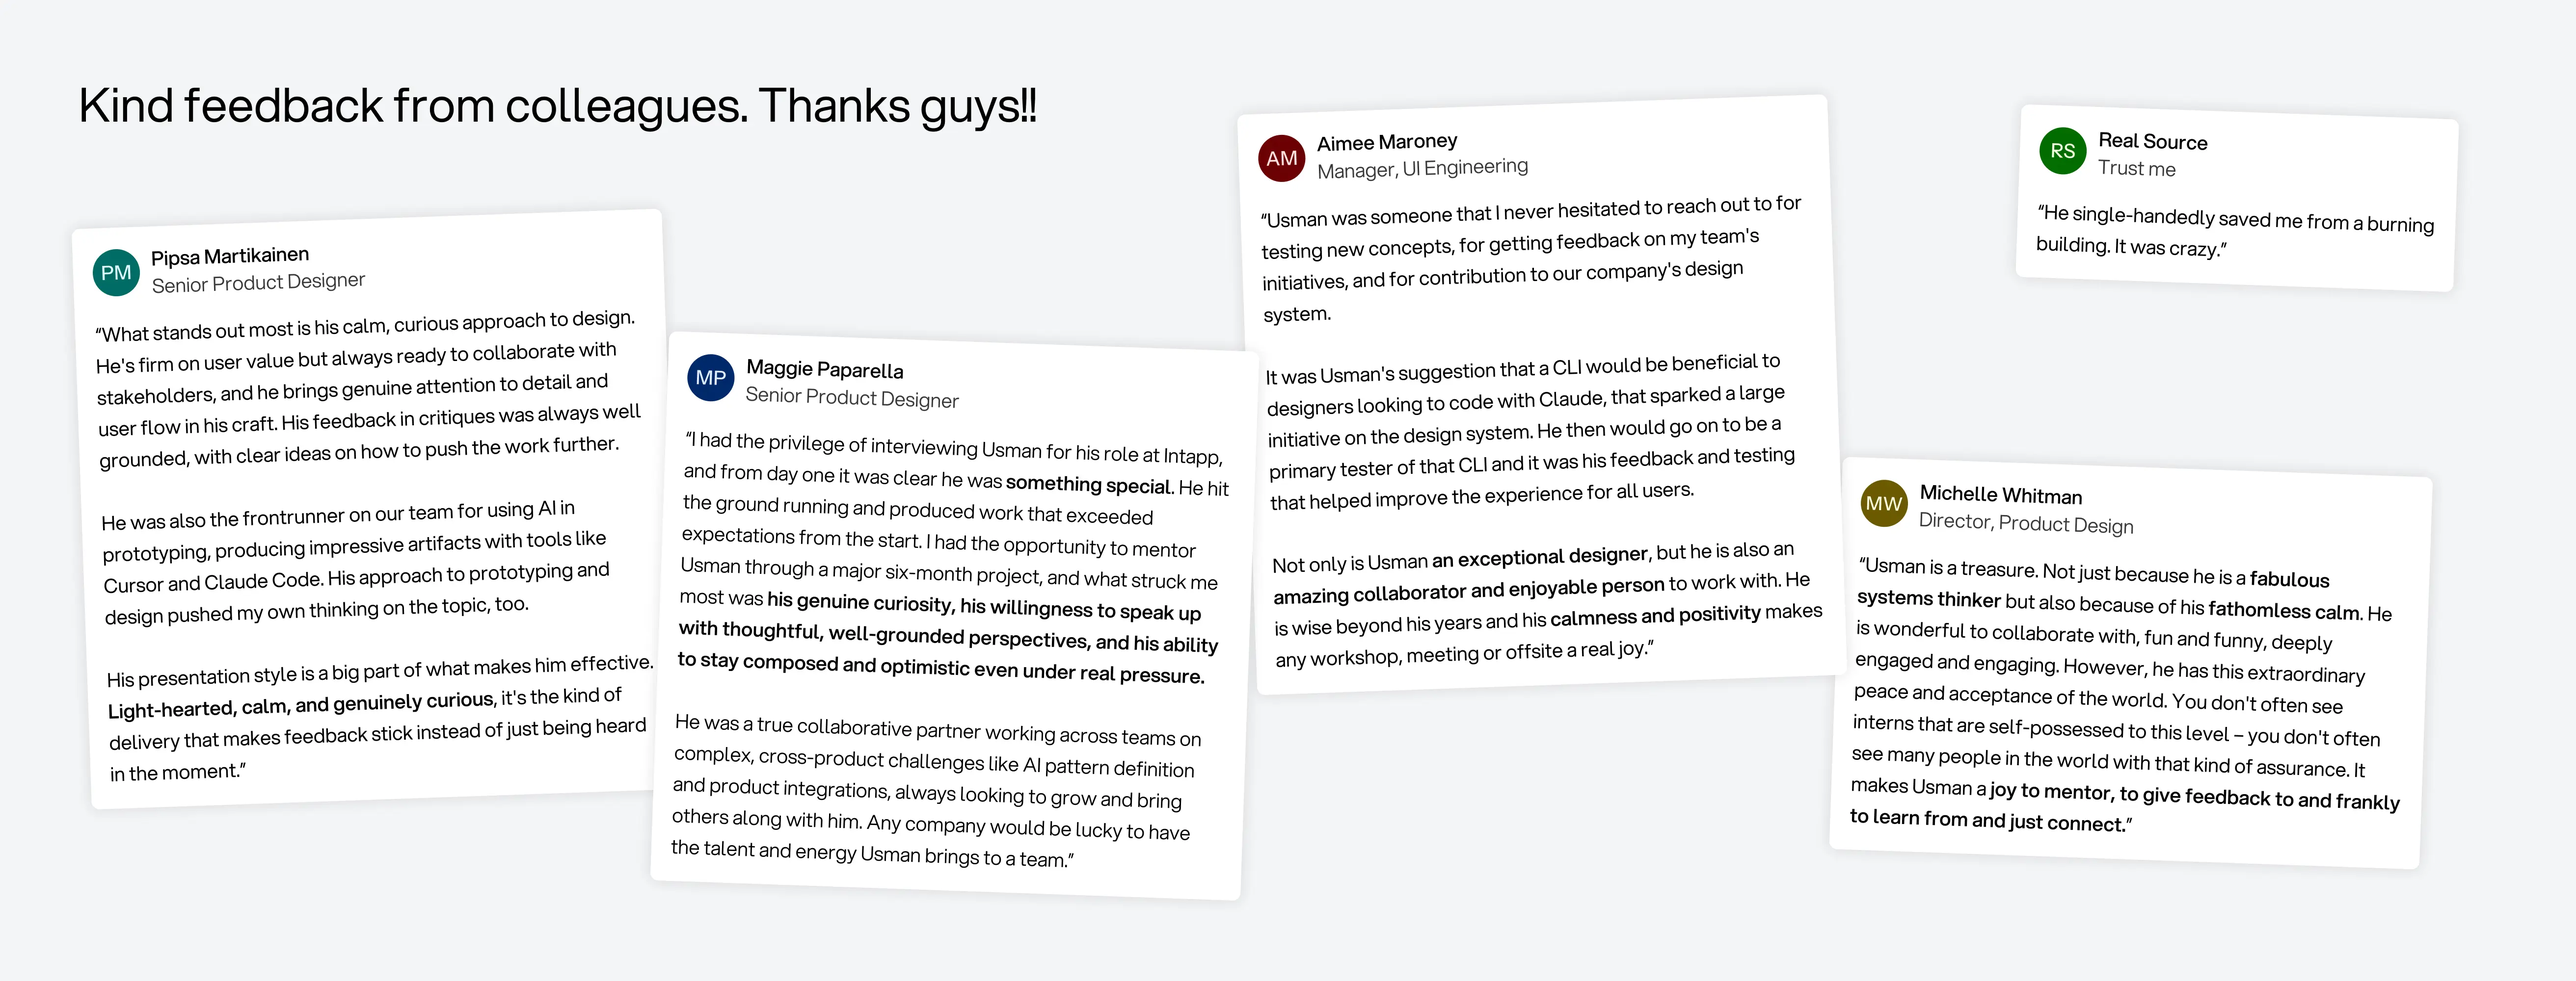
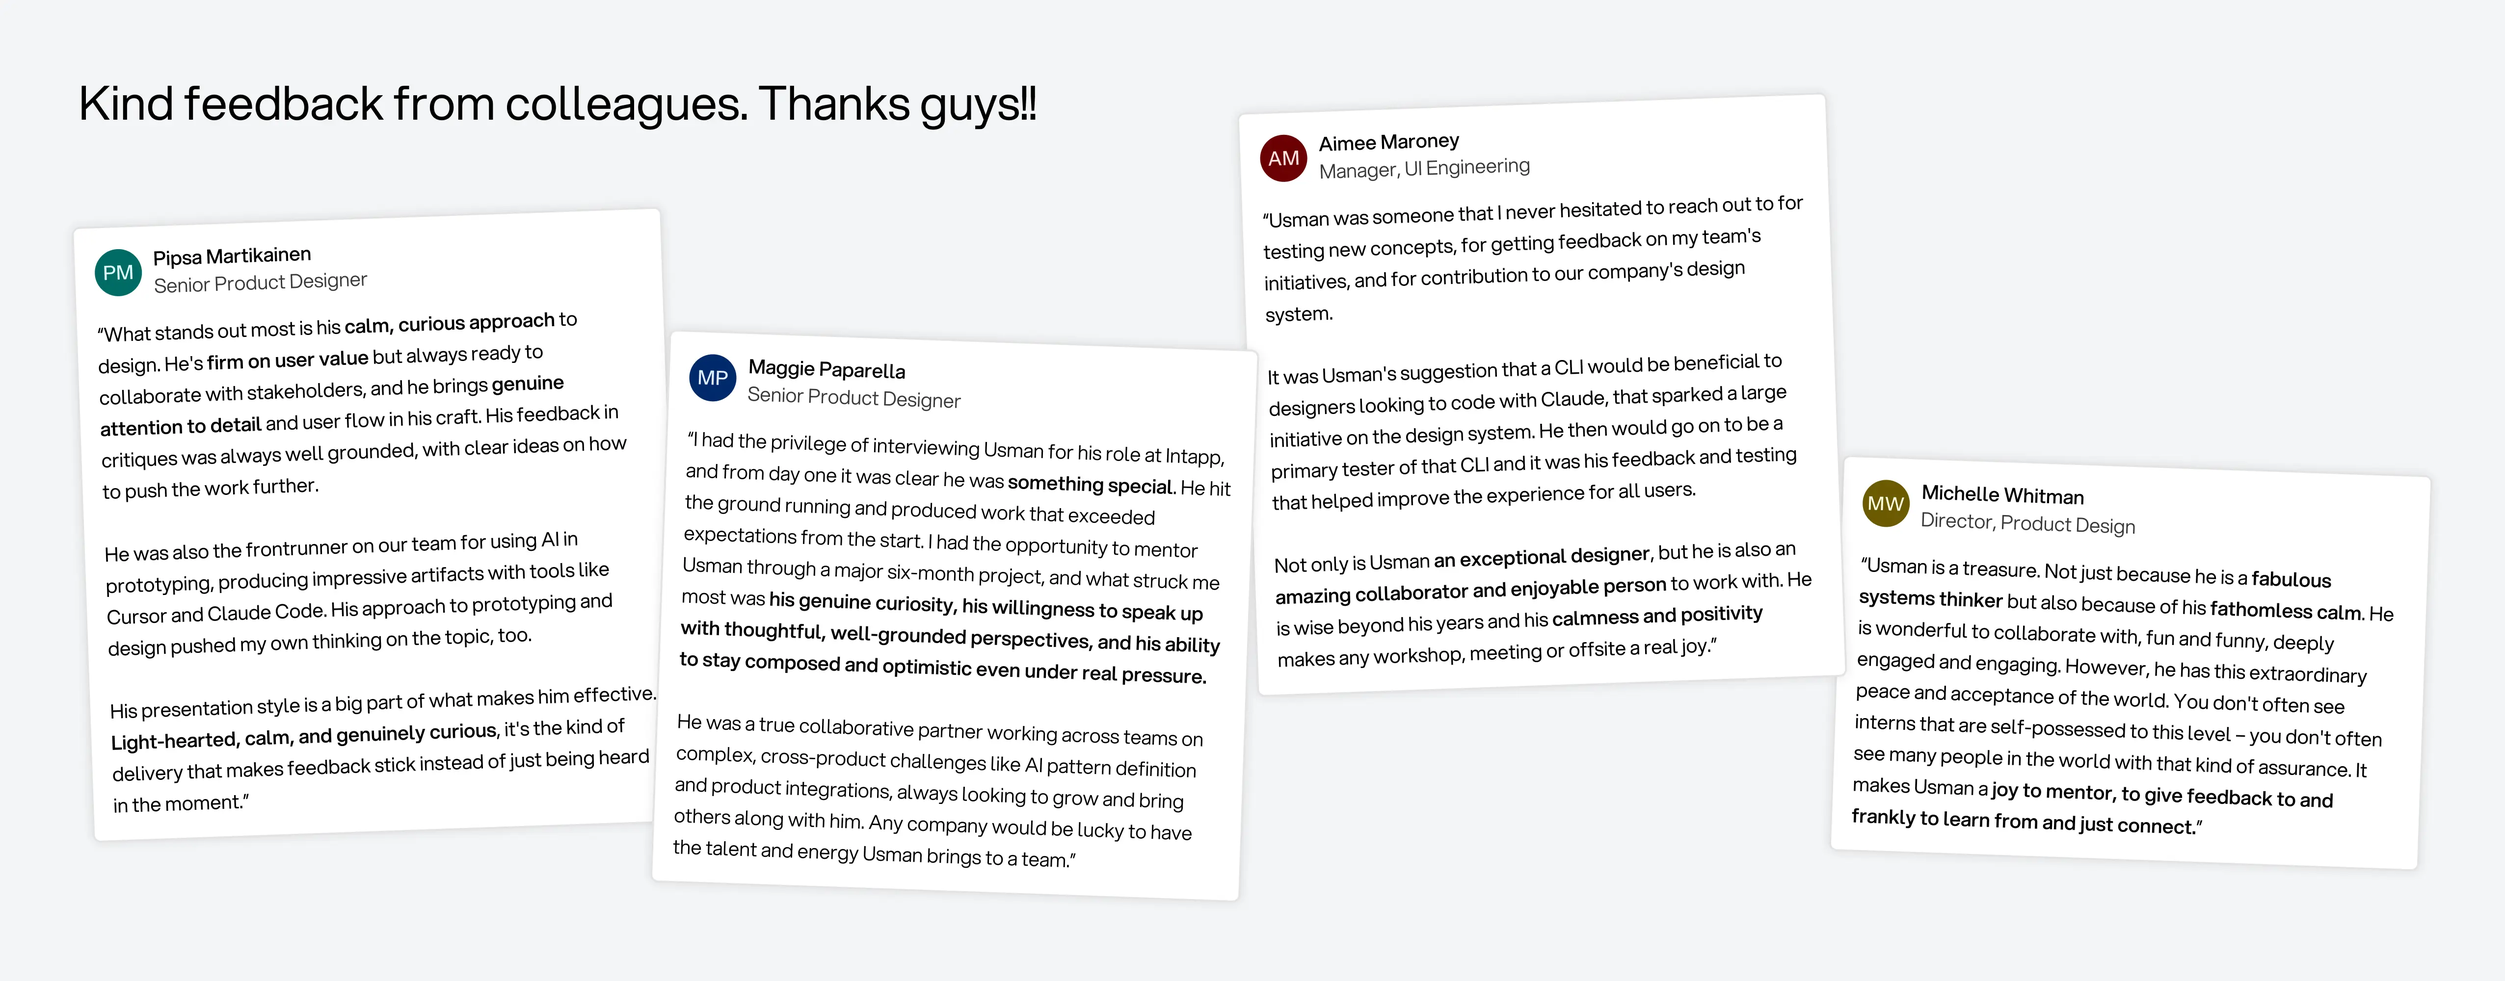
changing order of writing photos, changing row gaps for list view

diff --git a/src/pages/ProjectsPage.tsx b/src/pages/ProjectsPage.tsx
@@ -398,7 +398,7 @@ function ProjectsListView({
             marginBottom: 96,
             display: 'flex',
             flexDirection: 'column',
-            gap: 32,
+            gap: 80,
           }}
         >
           <div style={{ display: 'flex', flexDirection: 'column', gap: 16 }}>
@@ -613,7 +613,7 @@ function ProjectsListView({
               style={{
                 display: 'flex',
                 flexDirection: 'column',
-                gap: 24,
+                gap: 16,
                 width: '100%',
                 position: 'relative',
                 minHeight: 200,
@@ -725,8 +725,8 @@ function ProjectsListView({
               </AnimatePresence>
             </motion.div>
           </div>
-          <div style={{paddingTop: '64px'}}>
-            <h1 style={{fontSize: 'clamp(16px, 3.5vw, 20px)', fontWeight: 500, lineHeight: 'clamp(26px, 3.5vw, 30px)', marginBottom: '24px'}}>On the side, I combine digital art with my thoughts on technology and creativity. I maintain a Substack, digital per.spectives</h1>
+          <div style={{paddingTop: '16px'}}>
+            <h1 style={{fontSize: 'clamp(16px, 3.5vw, 20px)', fontWeight: 500, lineHeight: '1.5', marginBottom: '24px'}}>On the side, I combine digital art with my thoughts on technology and creativity. I maintain a Substack, digital per.spectives</h1>
             <div style={{display: 'flex', flexDirection: 'column', gap: '16px'}}>
                 <div
                   onClick={() => navigate('/art/art1')} 

diff --git a/src/config/projectContent.ts b/src/config/projectContent.ts
@@ -35,9 +35,9 @@ export const experimentalProjects: ProjectImageEntry[] = [
 
 export const artProjects: ProjectImageEntry[] = [
   { href: "./art1.webp", id: "art1" },
-  { href: "./art2.webp", id: "art2" },
-  /*{ href: "./art5.webp", id: "art5" },*/
   { href: "./art8.webp", id: "art8" },
+  /*{ href: "./art5.webp", id: "art5" },*/
+  { href: "./art2.webp", id: "art2" },
   { href: "./art11.webp", id: "art11" },
   /*{ href: "./art7.webp", id: "art7" },*/
   { href: "./art9.webp", id: "art9" },

diff --git a/src/pages/BusinessDevelopmentDigest.module.css b/src/pages/BusinessDevelopmentDigest.module.css
@@ -67,7 +67,7 @@ html {
 .body_main {
     font-weight: 350;
     font-size: clamp(12px, 3.5vw, 16px);
-    line-height: 1.65;
+    line-height: 1.6;
     width: 100%;
     margin-bottom: 32px;
 }
